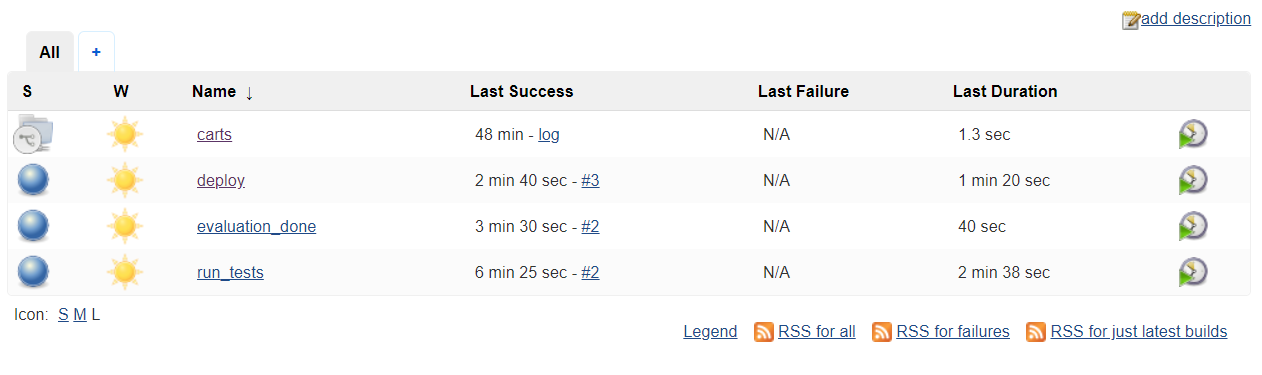
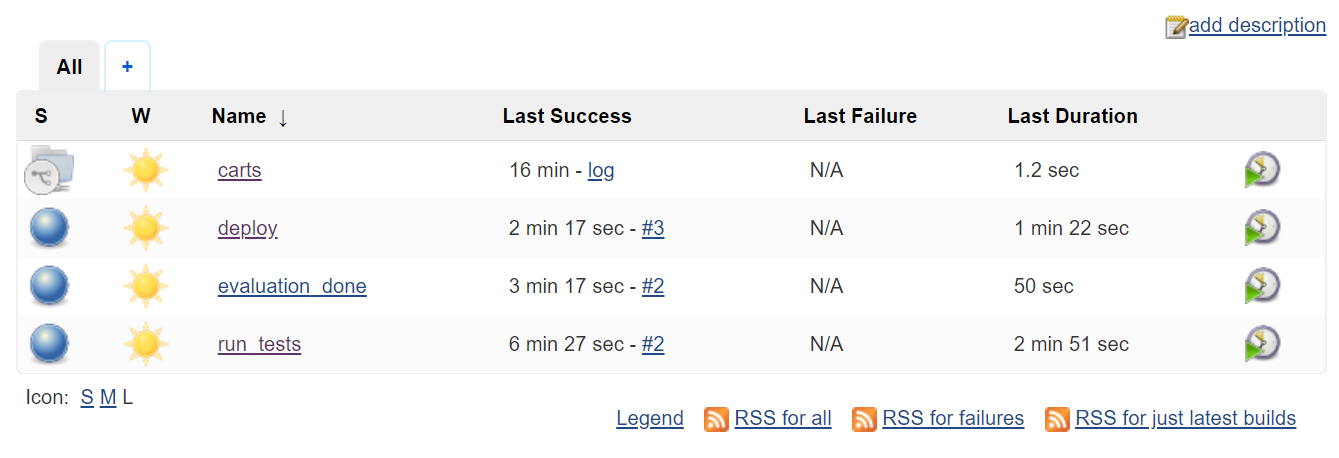
exchange image

diff --git a/content/docs/0.2.0/usecases/onboard-carts-service/index.md b/content/docs/0.2.0/usecases/onboard-carts-service/index.md
@@ -135,7 +135,7 @@ Since the carts service needs a mongo database, a second app needs to be onboard
 
 1. Saving the Pipeline automatically starts the checkout from your Github repository and triggers the build. In case the build is not triggered, go to **carts** > **master** > **Build Now**.
 
-1. Go back to the Jenkins dashboard to see how the other pipelines get triggered automatically. In detail, after the build of the artifact (`carts` pipeline), the `deploy` pipeline is triggered for the `dev` namespace, `run_tests` is executed, before `evaluation_done` is executed. If everything goes well, the same pipelines get triggered for the `staging` and `production` namespace. In total, the pipelines will run for about XX minutes before you have your `carts` service deployed in your `dev`, `staging` and `production` namespace.
+1. Go back to the Jenkins dashboard to see how the other pipelines get triggered automatically. In detail, after the build of the artifact (`carts` pipeline), the `deploy` pipeline is triggered for the `dev` namespace, `run_tests` is executed, before `evaluation_done` is executed. If everything goes well, the same pipelines get triggered for the `staging` and `production` namespace. In total, the pipelines will run for about 15&nbsp;minutes before you have your `carts` service deployed in your `dev`, `staging` and `production` namespace.
 
     {{< popup_image
       link="./assets/carts-pipeline.png"
